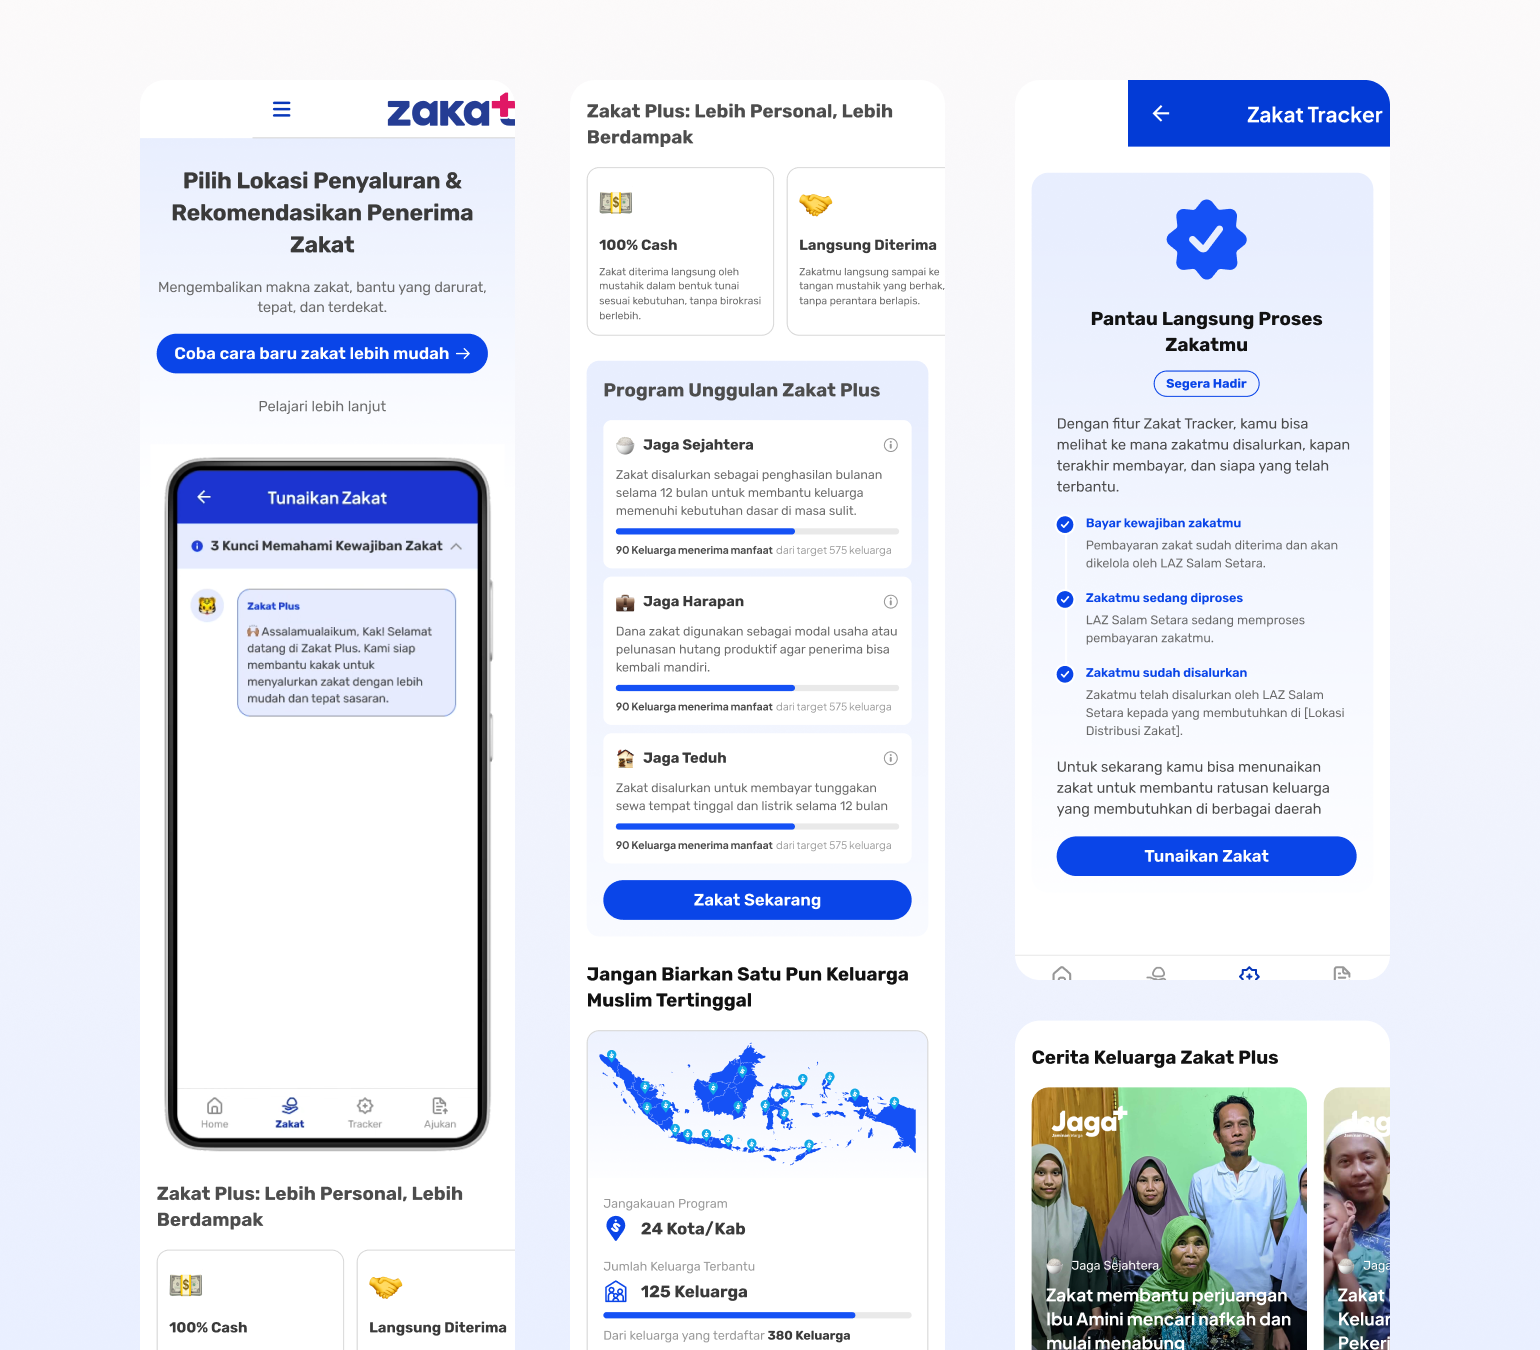
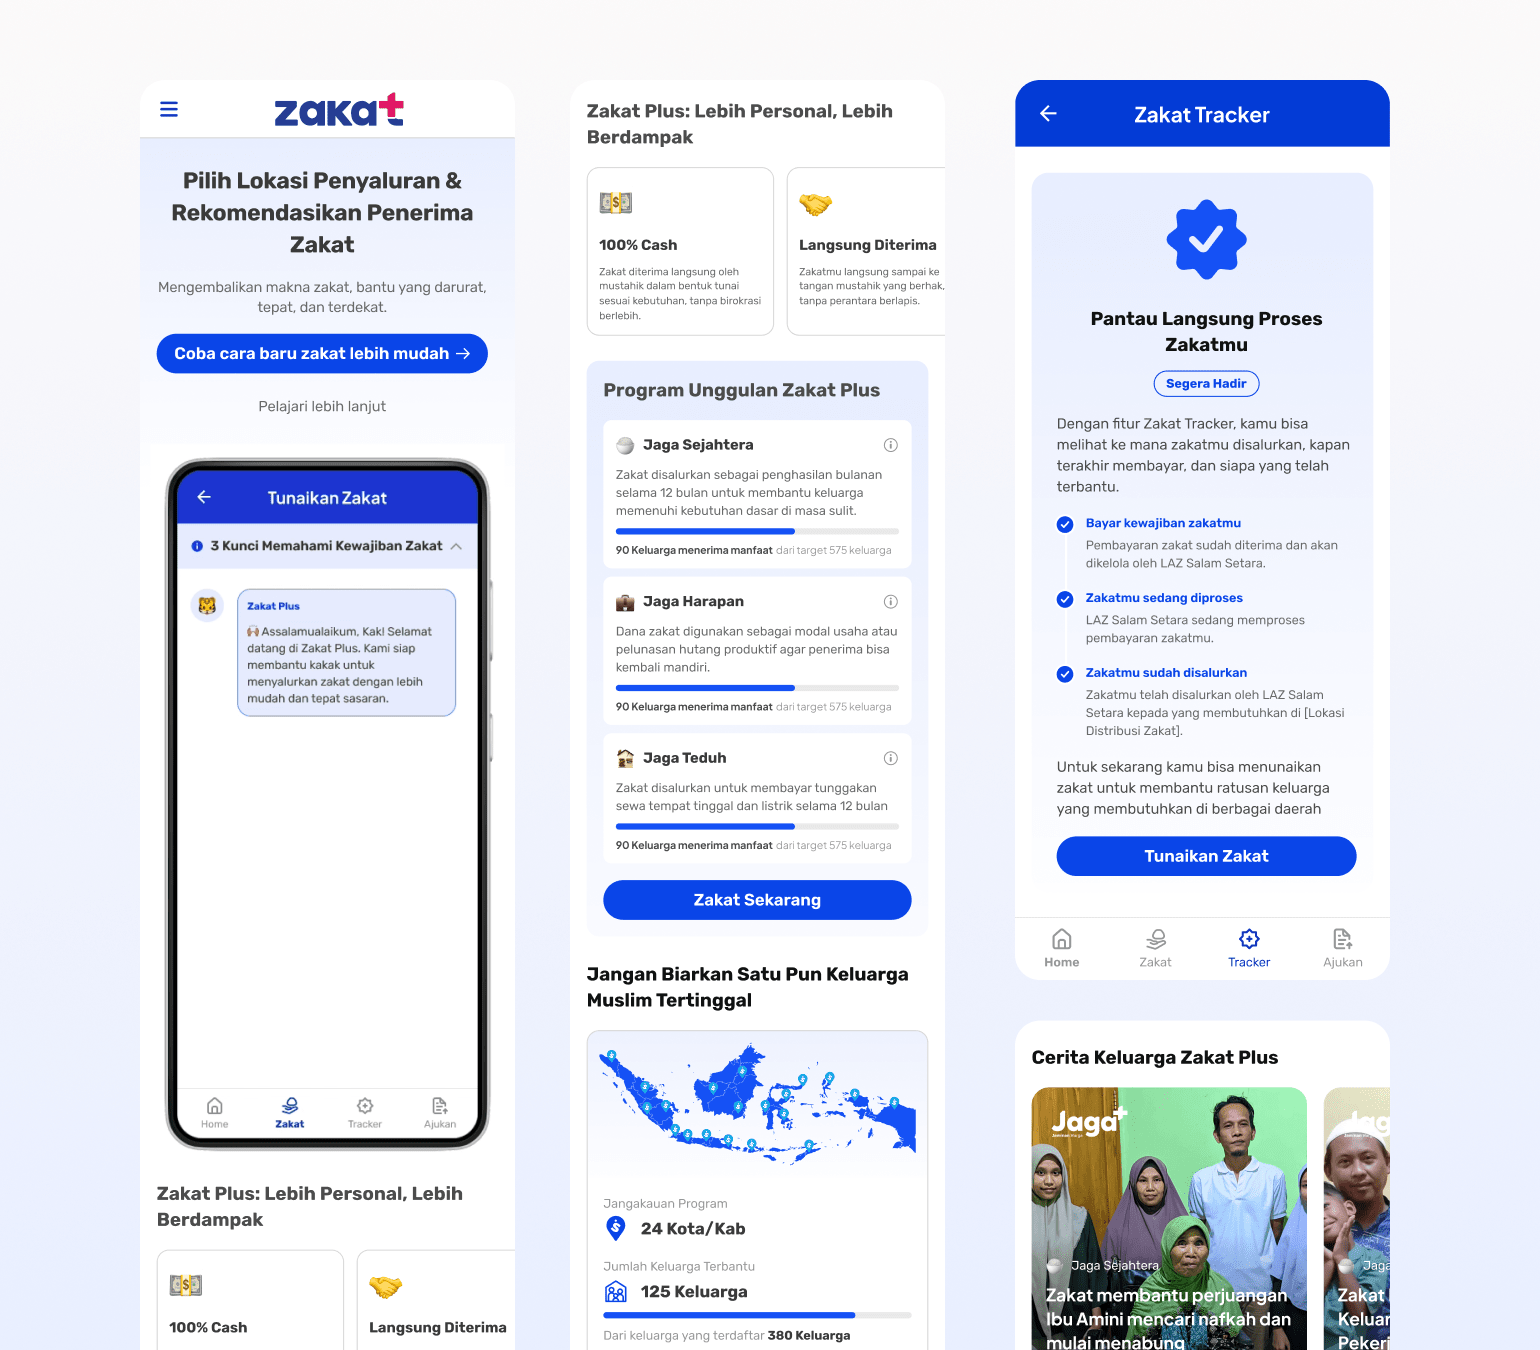
Update all portfolios

diff --git a/index.html b/index.html
@@ -147,17 +147,17 @@
             <li class="carousel-slide" data-project="assets/data/wbw.json">
               <div class="carousel-slideCanvas" style="z-index: 2;"><img class="carousel-slideImage" src="./assets/supatmo-wbw.png" alt="Website Warga Bantu Warga"></div>
             </li>
-            <li class="carousel-slide" data-project="assets/data/summary.json">
-              <div class="carousel-slideCanvas" style="z-index: 2;"><img class="carousel-slideImage" src="./assets/supatmo-summary.png" alt="Checkout Bank Transfer v2.0 Kitabisa"></div>
-            </li>
             <li class="carousel-slide" data-project="assets/data/lippokarawang.json">
               <div class="carousel-slideCanvas" style="z-index: 2;"><img class="carousel-slideImage" src="./assets/supatmo-lippo-cover.png" alt="Website Lippo Karawang"></div>
             </li>
-            <li class="carousel-slide" data-project="assets/data/lippokarawang.json">
+            <li class="carousel-slide" data-project="assets/data/virtues.json">
+              <div class="carousel-slideCanvas" style="z-index: 2;"><img class="carousel-slideImage" src="./assets/web-virtues/supatmo-virtues.png" alt="Oleca Static Website"></div>
+            </li>
+            <li class="carousel-slide" data-project="assets/data/oleca.json">
               <div class="carousel-slideCanvas" style="z-index: 2;"><img class="carousel-slideImage" src="./assets/supatmo-oleca.png" alt="Oleca Static Website"></div>
             </li>
-            <li class="carousel-slide" data-project="assets/data/virtues.json">
-              <div class="carousel-slideCanvas" style="z-index: 2;"><img class="carousel-slideImage" src="./assets/supatmo-virtues.png" alt="Oleca Static Website"></div>
+            <li class="carousel-slide" data-project="assets/data/summary.json">
+              <div class="carousel-slideCanvas" style="z-index: 2;"><img class="carousel-slideImage" src="./assets/supatmo-summary.png" alt="Checkout Bank Transfer v2.0 Kitabisa"></div>
             </li>
             <li class="carousel-slide" data-project="assets/data/lippokarawang.json">
               <div class="carousel-slideCanvas" style="z-index: 2;"><img class="carousel-slideImage" src="./assets/supatmo-wellnoted.png" alt="Website Wellnoted"></div>
@@ -184,19 +184,22 @@
             <li class="carousel-slide" data-project="assets/data/paripadi.json">
               <div class="carousel-slideCanvas" style="z-index: 99;"><img class="carousel-slideImage" src="./assets/supatmo-paripdi.png" alt="Paripadi Private Villa"></div>
             </li>
-            <li class="carousel-slide" data-project="assets/data/lippokarawang.json">
+            <li class="carousel-slide" data-project="assets/data/wbw.json">
               <div class="carousel-slideCanvas" style="z-index: 2;"><img class="carousel-slideImage" src="./assets/supatmo-wbw.png" alt="Warga Bantu Warga Website"></div>
-            </li>
-            <li class="carousel-slide" data-project="assets/data/lippokarawang.json">
-              <div class="carousel-slideCanvas" style="z-index: 2;"><img class="carousel-slideImage" src="./assets/supatmo-summary.png" alt="Checkout Bank Transfer v2.0 Kitabisa"></div>
             </li>
             <li class="carousel-slide" data-project="assets/data/lippokarawang.json">
               <div class="carousel-slideCanvas" style="z-index: 2;"><img class="carousel-slideImage" src="./assets/supatmo-lippo-cover.png" alt="Lippo Karawang Website"></div>
             </li>
-            <li class="carousel-slide" data-project="assets/data/lippokarawang.json">
+            <li class="carousel-slide" data-project="assets/data/virtues.json">
+              <div class="carousel-slideCanvas" style="z-index: 2;"><img class="carousel-slideImage" src="./assets/web-virtues/supatmo-virtues.png" alt="Virtues Profiling"></div>
+            </li>
+            <li class="carousel-slide" data-project="assets/data/oleca.json">
               <div class="carousel-slideCanvas" style="z-index: 2;"><img class="carousel-slideImage" src="./assets/supatmo-oleca.png" alt="Oleca Static Landing Pagge"></div>
             </li>
             <li class="carousel-slide" data-project="assets/data/lippokarawang.json">
+              <div class="carousel-slideCanvas" style="z-index: 2;"><img class="carousel-slideImage" src="./assets/supatmo-summary.png" alt="Checkout Bank Transfer v2.0 Kitabisa"></div>
+            </li>
+            <li class="carousel-slide" data-project="assets/data/wellnoted.json">
               <div class="carousel-slideCanvas" style="z-index: 2;"><img class="carousel-slideImage" src="./assets/supatmo-wellnoted.png" alt="Checkout Bank Transfer v2.0 Kitabisa"></div>
             </li>
             
@@ -217,8 +220,8 @@
               </div><img class="aboutContent-avatarImage" src="./assets/avatar.jpeg" alt="avatar">
             </div>
             <h3 class="aboutContent-infoHeadline">Hey<br>there!</h3>
-            <h4 class="aboutContent-infoParagraph">I’m Momo, a designer who uses human-centered thinking to solve real problems through simple, & visually clear experiences. I enjoy working in fast-paced environments and collaborating with cross-functional teams from product and engineering to marketing & customer experience to create solutions that are both impactful and delightful.</h4>
-            <h4 class="aboutContent-infoParagraph">When I'm not designing, I can be found doing play football or Fifa.</h4>
+            <p class="aboutContent-infoParagraph">I’m Momo, a designer who uses human-centered thinking to solve real problems through simple, & visually clear experiences. I enjoy working in fast-paced environments and collaborating with cross-functional teams from product and engineering to marketing & customer experience to create solutions that are both impactful and delightful.</p>
+            <p class="aboutContent-infoParagraph">When I'm not designing, I can be found doing play football or Fifa.</p>
             
             <!--<p class="aboutContent-infoParagraph"><a class="link" href="/" target="_blank">Download CV</a></p>-->
           </div>

diff --git a/assets/styles-min.css b/assets/styles-min.css
@@ -596,13 +596,13 @@ html:not(.is-mobile) .aboutContainer-closer:hover .aboutContainer-closerIcon pat
 	transform:translateY(-50%)
 }
 .aboutContent-infoHeadline+.aboutContent-infoParagraph {
-	margin-top:3.5rem
+	margin-top:2.5rem
 }
 .aboutContent-infoParagraph {
 	color:#252525
 }
 .aboutContent-infoParagraph+.aboutContent-infoParagraph {
-	margin-top:2.5rem
+	margin-top:1.5rem
 }
 .aboutContent-footer {
 	color:#252525

diff --git a/assets/styles.css b/assets/styles.css
@@ -743,13 +743,13 @@ html:not(.is-mobile) .aboutContainer-closer:hover .aboutContainer-closerIcon pat
 	transform:translateY(-50%)
 }
 .aboutContent-infoHeadline+.aboutContent-infoParagraph {
-	margin-top:3.5rem
+	margin-top:2.5rem
 }
 .aboutContent-infoParagraph {
 	color:#252525
 }
 .aboutContent-infoParagraph+.aboutContent-infoParagraph {
-	margin-top:2.5rem
+	margin-top:1.5rem
 }
 .aboutContent-footer {
 	color:#252525
